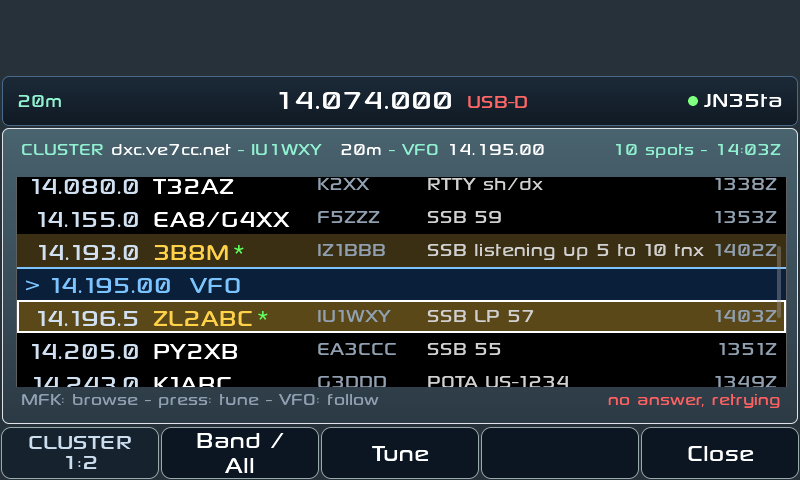
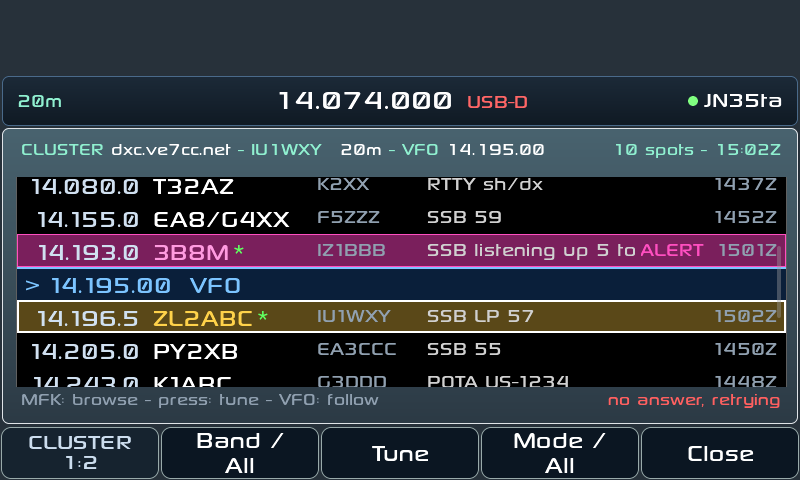
README: new screenshots (spots on the waterfall, WSPR, NavTex, SSTV, Keys)
Screenshots rendered from the current code: cyan spot lines and calls on
the waterfall, cluster column under the band plan, common app look. The
Outdoor theme and the old spectrum layout are out of the gallery. The
harness renders the main screen as main_screen.c lays it out.

diff --git a/tools/apps_ui_harness/main.c b/tools/apps_ui_harness/main.c
@@ -414,12 +414,12 @@ static void topbar(void) {
             cluster_client_feed_line(line);
         }
     }
-    cluster_column_init(stack, FREQ_STRIP_Y + FREQ_STRIP_H + 96 + 36 + SPOT_MARKS_H);
     band_plan_init(stack, FREQ_STRIP_Y + FREQ_STRIP_H + 96 - BAND_PLAN_H);
     band_plan_update(f, 50000);
     spot_marks_init(stack, FREQ_STRIP_Y + FREQ_STRIP_H + 96 - 36, 36, FREQ_STRIP_Y + FREQ_STRIP_H + 96 + 36);
     spot_marks_update(f, 50000);
     band_plan_update(f, 50000);
+    cluster_column_init(stack, FREQ_STRIP_Y + FREQ_STRIP_H + 96 + 36 + SPOT_MARKS_H);   /* over the spot calls, as main_screen.c */
     lv_obj_move_background(stack);   /* created first in main_screen.c */
 
     extern bool harness_notify;
@@ -583,6 +583,30 @@ static void topbar(void) {
     cluster_column_refresh();
     shot("cluster_column_4.ppm");
     pump(100);
+    /* As main_screen.c with the spectrum off (the only layout now): band plan
+     * on top of the waterfall, spot lines under it, calls on the waterfall */
+    {
+        lv_coord_t y = FREQ_STRIP_Y + FREQ_STRIP_H + 96 + 36;   /* stack coords, stack at -96 */
+
+        lv_obj_add_flag(spectrum, LV_OBJ_FLAG_HIDDEN);
+        lv_obj_set_y(stack, -96);
+        lv_obj_set_y(wf, y);
+        freq_scale_lines_set_y(y);
+        band_plan_set_y(y);
+        spot_marks_layout(y, BAND_PLAN_H + 8, y + BAND_PLAN_H + 8);
+        harness_cluster_column = 1;
+        cluster_column_layout(y + BAND_PLAN_H);
+        cluster_column_refresh();
+        freq_scale_update(7127000, 50000, 0xffffff);
+        spot_marks_update(7127000, 50000);
+        band_plan_update(7127000, 50000);
+        pump(1100);
+        shot("main_readme.ppm");
+        harness_cluster_column = 0;
+        cluster_column_refresh();
+        pump(1100);
+        shot("main_readme_nocol.ppm");
+    }
 }
 
 /* CW trainer: the decoder is fed by hand (harness_decode) with what the

diff --git a/README.md b/README.md
@@ -7,7 +7,7 @@ digital modes, DX cluster on the waterfall, Bluetooth, wfview server and a web c
 
 <p align="center"><img src="docs/screenshots/main_screen.png" alt="Main screen with DX cluster spot tags on the waterfall" width="720"></p>
 
-<p align="center"><i>Main screen: S-meter, frequency strip, DX cluster tags and spot lines over the waterfall.
+<p align="center"><i>Main screen: S-meter, frequency strip, band plan, cyan DX cluster spot lines and callsigns on the waterfall.
 All screenshots in this README are rendered on a PC with fake data.</i></p>
 
 Unofficial combined firmware for the Xiegu X6100. It starts from the R1CBU
@@ -95,20 +95,24 @@ works as in the base firmware.
 
 <table>
   <tr>
-    <td align="center"><img src="docs/screenshots/cluster_column.png" alt="Cluster column"><br><sub><b>Cluster column</b> at the right of the waterfall</sub></td>
+    <td align="center"><img src="docs/screenshots/cluster_column.png" alt="Cluster column"><br><sub><b>Cluster column</b> at the right of the waterfall, under the band plan</sub></td>
     <td align="center"><img src="docs/screenshots/cluster_app.png" alt="Cluster app"><br><sub><b>DX Cluster app</b>: spots around the VFO, new spots marked</sub></td>
   </tr>
   <tr>
-    <td align="center"><img src="docs/screenshots/smeter.png" alt="S-meter"><br><sub><b>S-meter</b> with the green-to-red gradient above S9</sub></td>
-    <td align="center"><img src="docs/screenshots/theme_outdoor.png" alt="Outdoor theme"><br><sub><b>Outdoor theme</b> (out of the menu for now)</sub></td>
+    <td align="center"><img src="docs/screenshots/wspr_app.png" alt="WSPR app"><br><sub><b>WSPR</b>: decoded spots with distance, TX chance and upload state</sub></td>
+    <td align="center"><img src="docs/screenshots/navtex_app.png" alt="NavTex app"><br><sub><b>NavTex</b> in the common look of the fixed-frequency apps</sub></td>
   </tr>
   <tr>
-    <td align="center"><img src="docs/screenshots/waterfall_fixed_mode.png" alt="Fixed waterfall"><br><sub><b>Fixed waterfall</b> with the amber VFO line</sub></td>
+    <td align="center"><img src="docs/screenshots/sstv_freqs.png" alt="SSTV calling frequencies"><br><sub><b>SSTV</b> calling frequencies (<b>Freq.</b>)</sub></td>
     <td align="center"><img src="docs/screenshots/digital_modes_menu.png" alt="Modes menu"><br><sub><b>Modes menu</b> on the APP buttons</sub></td>
   </tr>
   <tr>
     <td align="center"><img src="docs/screenshots/js8_app.png" alt="JS8 app"><br><sub><b>JS8</b> app</sub></td>
+    <td align="center"><img src="docs/screenshots/smeter.png" alt="S-meter"><br><sub><b>S-meter</b> with the green-to-red gradient above S9</sub></td>
+  </tr>
+  <tr>
     <td align="center"><img src="docs/screenshots/settings_general.png" alt="Settings"><br><sub><b>Settings</b>: station, date/time and time zone</sub></td>
+    <td align="center"><img src="docs/screenshots/settings_keys.png" alt="Keys settings"><br><sub><b>Keys</b>: long press of the front keys and hand mic keys</sub></td>
   </tr>
   <tr>
     <td align="center"><img src="docs/screenshots/settings_wfview.png" alt="wfview settings"><br><sub><b>wfview server</b> settings on the radio</sub></td>
@@ -429,12 +433,14 @@ Audio, Wireless (page 1), Keys and Info (page 2).
 | General | STATION (callsign, QTH locator), DATE / TIME, CONTROLS (frequency acceleration, charger), TX CALIBRATION (IQ offsets, band output gain), TRANSVERTERS (from, to, shift) |
 | Display | BACKLIGHT, WATERFALL (mode, auto level, manual min/max, line and zoom, smooth scroll), MAIN SCREEN (band plan, cluster spots, spot snap hold and speed, cluster column), INTERFACE (popups, knob info, font) |
 | Audio | RX AUDIO, TX AUDIO (codec gain, compressor, filter, CESSB, FM emphasis), MICROPHONE, VOX, AGC, BT HEADPHONES |
-| Wireless | WIFI (scan, connect, IP), BLUETOOTH (power, Discoverable (CAT), device list, Scan headphones) |
+| Wireless | WIFI (power, status, IP, networks), BLUETOOTH (power, Discoverable (CAT), device list, Scan headphones), WFVIEW SERVER (on/off, user, password, port and client) |
 | Keys | FRONT KEYS, LONG PRESS (GEN, APP, KEY, MSG, DFN, DFL), HAND MIC KEYS (F1, F2, F1 long, F2 long) |
 | Info | app and base firmware versions |
 
-Some options say *(restart)*: Font applies at the next
-start. Some cards depend on the base firmware revision (TX AUDIO, band output
+The MFK walks the controls and stops at the first and last one; there the
+page shows its top or its end, so status rows below the last control are
+always in view. A new Font applies at the next start (the screen says so when
+you change it). Some cards depend on the base firmware revision (TX AUDIO, band output
 gain, TX filter, CESSB, FM emphasis).
 
 ## Reference
